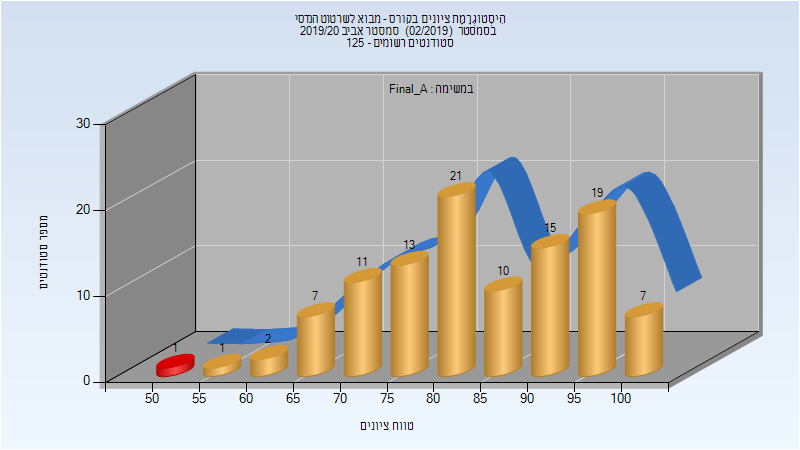
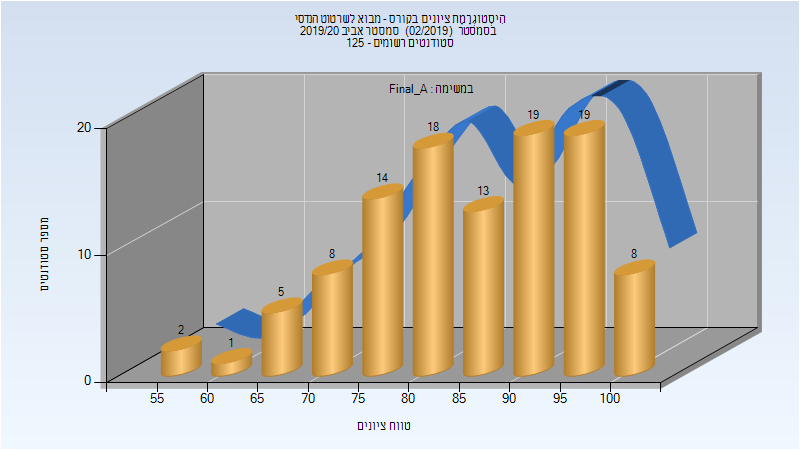
Deploy michael-maltsev/technion-histograms to github.com/michael-maltsev/technion-histograms.git:gh-pages

diff --git a/034042/index.html b/034042/index.html
@@ -970,12 +970,12 @@
 <tbody>
 <tr>
 <td>107</td>
-<td>82/25</td>
-<td>77</td>
-<td>24.5</td>
+<td>88/19</td>
+<td>82</td>
+<td>26</td>
 <td>93</td>
-<td>67.192</td>
-<td>65.5</td>
+<td>69.131</td>
+<td>70</td>
 </tr>
 </tbody>
 </table>
@@ -996,12 +996,38 @@
 <tbody>
 <tr>
 <td>107</td>
-<td>106/1</td>
-<td>99</td>
-<td>54.46</td>
+<td>107/0</td>
 <td>100</td>
-<td>84.739</td>
-<td>83.72</td>
+<td>55.51</td>
+<td>100</td>
+<td>86.077</td>
+<td>86.85</td>
+</tr>
+</tbody>
+</table>
+<h3>סופי</h3>
+<p><img src="201902/Finals.png" alt="201902 Finals" /></p>
+<table>
+<thead>
+<tr>
+<th>סטודנטים</th>
+<th>עברו/נכשלו</th>
+<th>אחוז עוברים</th>
+<th>ציון מינימלי</th>
+<th>ציון מקסימלי</th>
+<th>ממוצע</th>
+<th>חציון</th>
+</tr>
+</thead>
+<tbody>
+<tr>
+<td>107</td>
+<td>107/0</td>
+<td>100</td>
+<td>56</td>
+<td>100</td>
+<td>86.093</td>
+<td>87</td>
 </tr>
 </tbody>
 </table>

diff --git a/114081/index.html b/114081/index.html
@@ -709,5 +709,31 @@
 </tr>
 </tbody>
 </table>
+<h3>סופי</h3>
+<p><img src="201902/Finals.png" alt="201902 Finals" /></p>
+<table>
+<thead>
+<tr>
+<th>סטודנטים</th>
+<th>עברו/נכשלו</th>
+<th>אחוז עוברים</th>
+<th>ציון מינימלי</th>
+<th>ציון מקסימלי</th>
+<th>ממוצע</th>
+<th>חציון</th>
+</tr>
+</thead>
+<tbody>
+<tr>
+<td>54</td>
+<td>54/0</td>
+<td>100</td>
+<td>75</td>
+<td>95</td>
+<td>88.648</td>
+<td>89.5</td>
+</tr>
+</tbody>
+</table>
   </body>
 </html>

diff --git a/034042/README.md b/034042/README.md
@@ -300,7 +300,7 @@
 
 | סטודנטים | עברו/נכשלו | אחוז עוברים | ציון מינימלי | ציון מקסימלי | ממוצע | חציון |
 | ---- | ---- | ---- | ---- | ---- | ---- | ---- |
-| 107 | 82/25 | 77 | 24.5 | 93 | 67.192 | 65.5 |
+| 107 | 88/19 | 82 | 26 | 93 | 69.131 | 70 |
 
 ### סופי מועד א'
 
@@ -308,5 +308,13 @@
 
 | סטודנטים | עברו/נכשלו | אחוז עוברים | ציון מינימלי | ציון מקסימלי | ממוצע | חציון |
 | ---- | ---- | ---- | ---- | ---- | ---- | ---- |
-| 107 | 106/1 | 99 | 54.46 | 100 | 84.739 | 83.72 |
+| 107 | 107/0 | 100 | 55.51 | 100 | 86.077 | 86.85 |
+
+### סופי
+
+![201902 Finals](201902/Finals.png)
+
+| סטודנטים | עברו/נכשלו | אחוז עוברים | ציון מינימלי | ציון מקסימלי | ממוצע | חציון |
+| ---- | ---- | ---- | ---- | ---- | ---- | ---- |
+| 107 | 107/0 | 100 | 56 | 100 | 86.093 | 87 |
 

diff --git a/114081/README.md b/114081/README.md
@@ -223,3 +223,11 @@
 | ---- | ---- | ---- | ---- | ---- | ---- | ---- |
 | 54 | 54/0 | 100 | 74.67 | 94.93 | 88.693 | 89.465 |
 
+### סופי
+
+![201902 Finals](201902/Finals.png)
+
+| סטודנטים | עברו/נכשלו | אחוז עוברים | ציון מינימלי | ציון מקסימלי | ממוצע | חציון |
+| ---- | ---- | ---- | ---- | ---- | ---- | ---- |
+| 54 | 54/0 | 100 | 75 | 95 | 88.648 | 89.5 |
+
